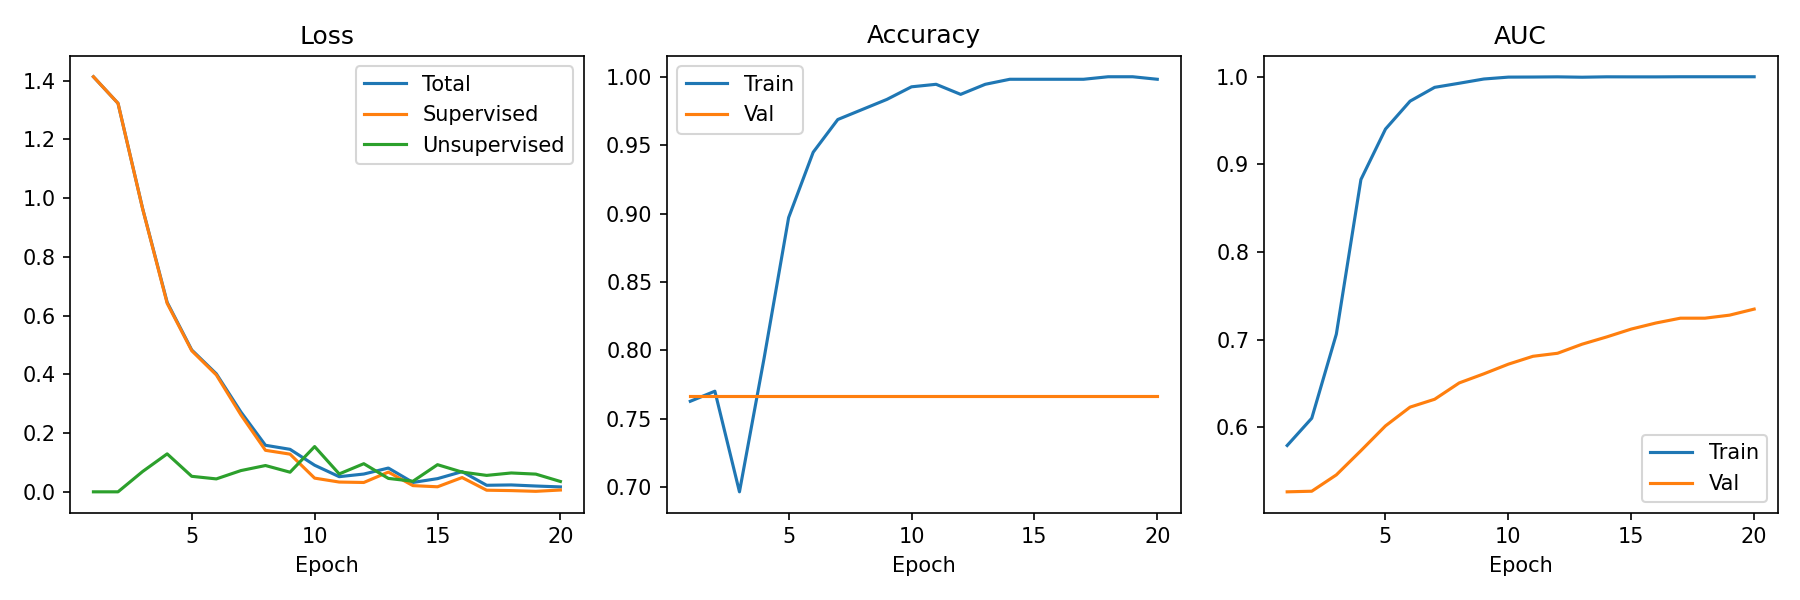
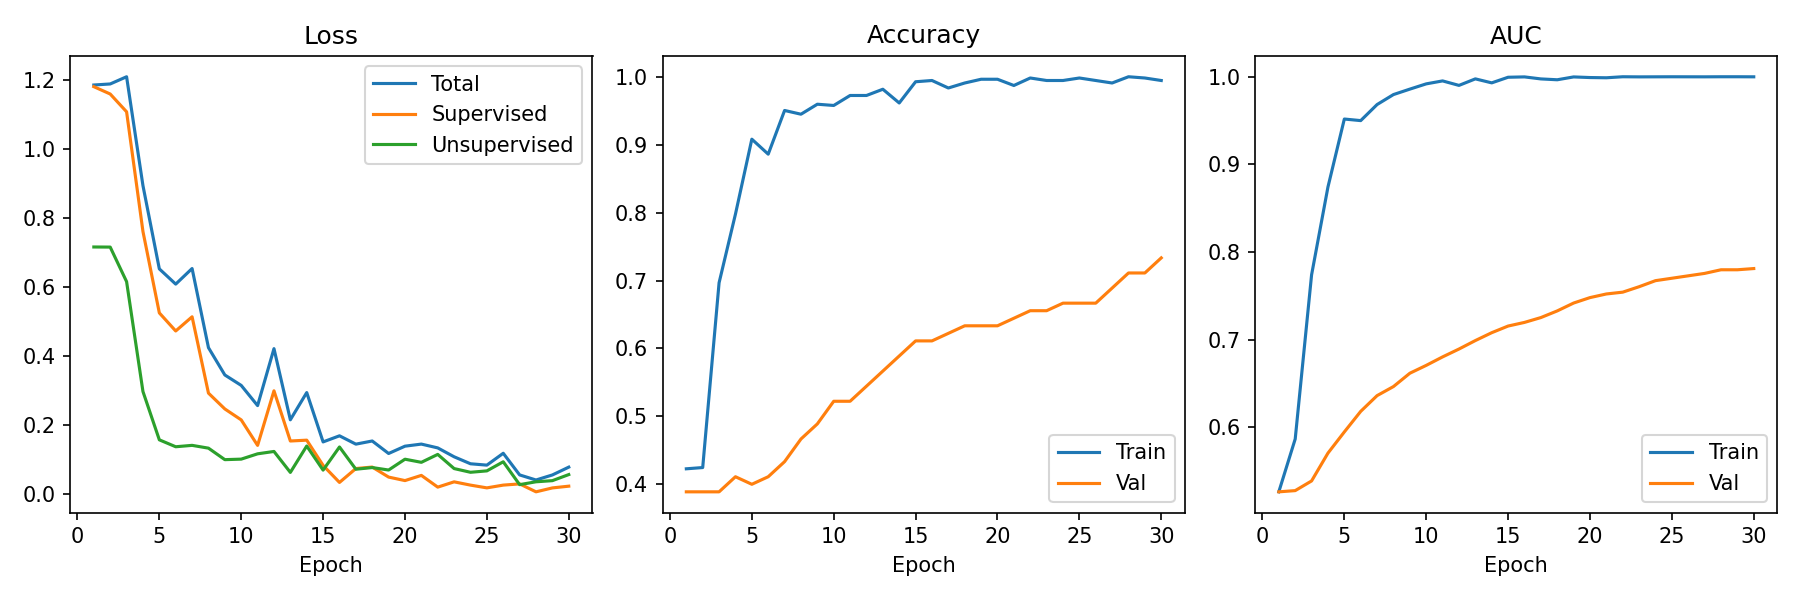
Enhance lesion classification training by updating loss settings to use focal loss, adding MixUp augmentation parameters, and refining data augmentation strategies with new transformations for improved model robustness.

diff --git a/lesion_classification/data.py b/lesion_classification/data.py
@@ -171,8 +171,11 @@ def get_transforms() -> DataTransforms:
         [
             Augm.Resize(settings.IMAGE_RESIZE, settings.IMAGE_RESIZE),
             Augm.RandomCrop(width=settings.IMAGE_SIZE, height=settings.IMAGE_SIZE),
-            Augm.HorizontalFlip(p=1),
-            Augm.RandomBrightnessContrast(p=0.1),
+            Augm.HorizontalFlip(p=0.5),
+            Augm.VerticalFlip(p=0.5),
+            Augm.Rotate(limit=30, p=0.5),
+            Augm.ShiftScaleRotate(shift_limit=0.1, scale_limit=0.1, rotate_limit=15, p=0.3),
+            Augm.RandomBrightnessContrast(p=0.2),
             Augm.Normalize(mean=IMAGENET_MEAN, std=IMAGENET_STD),
             ToTensorV2(),
         ]
@@ -182,8 +185,10 @@ def get_transforms() -> DataTransforms:
         [
             Augm.Resize(settings.IMAGE_RESIZE, settings.IMAGE_RESIZE),
             Augm.RandomCrop(width=settings.IMAGE_SIZE, height=settings.IMAGE_SIZE),
-            ColorJitter(),
-            Augm.RandomBrightnessContrast(p=0.1),
+            Augm.HorizontalFlip(p=0.5),
+            ColorJitter(brightness=0.2, contrast=0.2, saturation=0.2, hue=0.05),
+            Augm.RandomBrightnessContrast(brightness_limit=0.2, contrast_limit=0.2, p=0.3),
+            Augm.HueSaturationValue(hue_shift_limit=10, sat_shift_limit=20, val_shift_limit=20, p=0.3),
             Augm.Normalize(mean=IMAGENET_MEAN, std=IMAGENET_STD),
             ToTensorV2(),
         ]
@@ -193,8 +198,10 @@ def get_transforms() -> DataTransforms:
         [
             Augm.Resize(settings.IMAGE_RESIZE, settings.IMAGE_RESIZE),
             Augm.RandomCrop(width=settings.IMAGE_SIZE, height=settings.IMAGE_SIZE),
-            FancyPCA(),
-            Augm.RandomBrightnessContrast(p=0.1),
+            Augm.HorizontalFlip(p=0.5),
+            Augm.VerticalFlip(p=0.3),
+            FancyPCA(alpha=0.1),
+            Augm.RandomBrightnessContrast(brightness_limit=0.15, contrast_limit=0.15, p=0.3),
             Augm.Normalize(mean=IMAGENET_MEAN, std=IMAGENET_STD),
             ToTensorV2(),
         ]
@@ -226,11 +233,21 @@ def get_transforms() -> DataTransforms:
 
     strong_transform = Augm.Compose(
         [
-            Augm.RandomResizedCrop(size=(settings.IMAGE_SIZE, settings.IMAGE_SIZE), scale=(0.6, 1.0)),
+            Augm.RandomResizedCrop(size=(settings.IMAGE_SIZE, settings.IMAGE_SIZE), scale=(0.5, 1.0)),
             Augm.HorizontalFlip(p=0.5),
+            Augm.VerticalFlip(p=0.5),
+            Augm.Rotate(limit=45, p=0.5),
             *strong_augment,
-            Augm.CoarseDropout(p=0.4),
-            Augm.RandomBrightnessContrast(p=0.1),
+            Augm.OneOf(
+                [
+                    Augm.GridDistortion(num_steps=5, distort_limit=0.3, p=1.0),
+                    Augm.ElasticTransform(alpha=1, sigma=50, p=1.0),
+                    Augm.ShiftScaleRotate(shift_limit=0.1, scale_limit=0.2, rotate_limit=20, p=1.0),
+                ],
+                p=0.3,
+            ),
+            Augm.CoarseDropout(max_holes=8, max_height=32, max_width=32, p=0.5),
+            Augm.RandomBrightnessContrast(brightness_limit=0.2, contrast_limit=0.2, p=0.3),
             Augm.Normalize(mean=IMAGENET_MEAN, std=IMAGENET_STD),
             ToTensorV2(),
         ]

diff --git a/lesion_classification/trainer.py b/lesion_classification/trainer.py
@@ -105,6 +105,33 @@ def _topk_mask(confidence: torch.Tensor, pseudo_labels: torch.Tensor) -> torch.T
     return mask.clamp(max=1.0)
 
 
+def _mixup_data(
+    images: torch.Tensor,
+    labels: torch.Tensor,
+    alpha: float = 0.4,
+) -> tuple[torch.Tensor, torch.Tensor, torch.Tensor, float]:
+    """Apply MixUp augmentation to create synthetic samples."""
+    lam = np.random.beta(alpha, alpha) if alpha > 0 else 1.0
+
+    batch_size = images.size(0)
+    index = torch.randperm(batch_size, device=images.device)
+
+    mixed_images = lam * images + (1 - lam) * images[index]
+    labels_a, labels_b = labels, labels[index]
+    return mixed_images, labels_a, labels_b, lam
+
+
+def _mixup_criterion(
+    criterion: nn.Module,
+    logits: torch.Tensor,
+    labels_a: torch.Tensor,
+    labels_b: torch.Tensor,
+    lam: float,
+) -> torch.Tensor:
+    """Compute loss for MixUp samples."""
+    return lam * criterion(logits, labels_a) + (1 - lam) * criterion(logits, labels_b)
+
+
 def _flexmatch_thresholds(
     confidence: torch.Tensor,
     pseudo_labels: torch.Tensor,
@@ -168,9 +195,20 @@ def train_one_epoch_fixmatch(
 
         optimizer.zero_grad()
         with torch.amp.autocast(device_type="cuda", enabled=settings.USE_AMP and device.type == "cuda"):
-            labeled_logits = model(labeled_imgs)
-            supervised_loss = supervised_criterion(labeled_logits, labeled_targets)
-            labeled_probs = torch.sigmoid(labeled_logits)
+            # Apply MixUp augmentation to labeled data
+            use_mixup = settings.MIXUP_ENABLE and np.random.rand() < settings.MIXUP_PROB
+            if use_mixup:
+                mixed_imgs, labels_a, labels_b, lam = _mixup_data(labeled_imgs, labeled_targets, settings.MIXUP_ALPHA)
+                labeled_logits = model(mixed_imgs)
+                supervised_loss = _mixup_criterion(supervised_criterion, labeled_logits, labels_a, labels_b, lam)
+                # For metrics, use original images
+                with torch.no_grad():
+                    orig_logits = model(labeled_imgs)
+                    labeled_probs = torch.sigmoid(orig_logits)
+            else:
+                labeled_logits = model(labeled_imgs)
+                supervised_loss = supervised_criterion(labeled_logits, labeled_targets)
+                labeled_probs = torch.sigmoid(labeled_logits)
             labeled_preds_list.extend(labeled_probs.detach().cpu().numpy())
             labeled_labels_list.extend(labeled_targets.detach().cpu().numpy())
 
@@ -336,7 +374,7 @@ def run_training(
         elif epoch == settings.FREEZE_BACKBONE_EPOCHS:
             for param in model.encoder.parameters():
                 param.requires_grad = True
-        avg_loss, sup_loss, unsup_loss, train_acc, train_auc, accepted_total, accepted_pos, accepted_neg = train_one_epoch_fixmatch(
+        avg_loss, sup_loss, unsup_loss, train_acc, train_auc, accepted_total, accepted_pos, _ = train_one_epoch_fixmatch(
             model, train_loader, unlabeled_loader, optimizer, supervised_criterion, device, epoch, scaler, ema
         )
 

diff --git a/lesion_classification/config.py b/lesion_classification/config.py
@@ -28,7 +28,7 @@ class Settings(BaseSettings):
     # Loss Settings
     FOCAL_GAMMA: float = 2.0
     FOCAL_ALPHA: float = 0.6
-    SUPERVISED_LOSS: str = "bce"  # "focal" or "bce"
+    SUPERVISED_LOSS: str = "focal"  # Focal loss for hard example mining
     POS_WEIGHT: float = 2.5
     AUTO_POS_WEIGHT: bool = True  # Auto-compute based on class ratio
     POS_WEIGHT_MAX: float = 4.0  # Allow higher weight for minority class
@@ -67,6 +67,11 @@ class Settings(BaseSettings):
     FIXMATCH_USE_TOPK: bool = False
     FIXMATCH_TOPK_POS: int = 8
     FIXMATCH_TOPK_NEG: int = 16
+
+    # MixUp augmentation (creates synthetic samples)
+    MIXUP_ENABLE: bool = True
+    MIXUP_ALPHA: float = 0.4  # Beta distribution parameter (higher = more mixing)
+    MIXUP_PROB: float = 0.5  # Probability of applying MixUp per batch
 
     # Training control
     EARLY_STOP_PATIENCE: int = 8  # More patience since SSL needs time to converge
